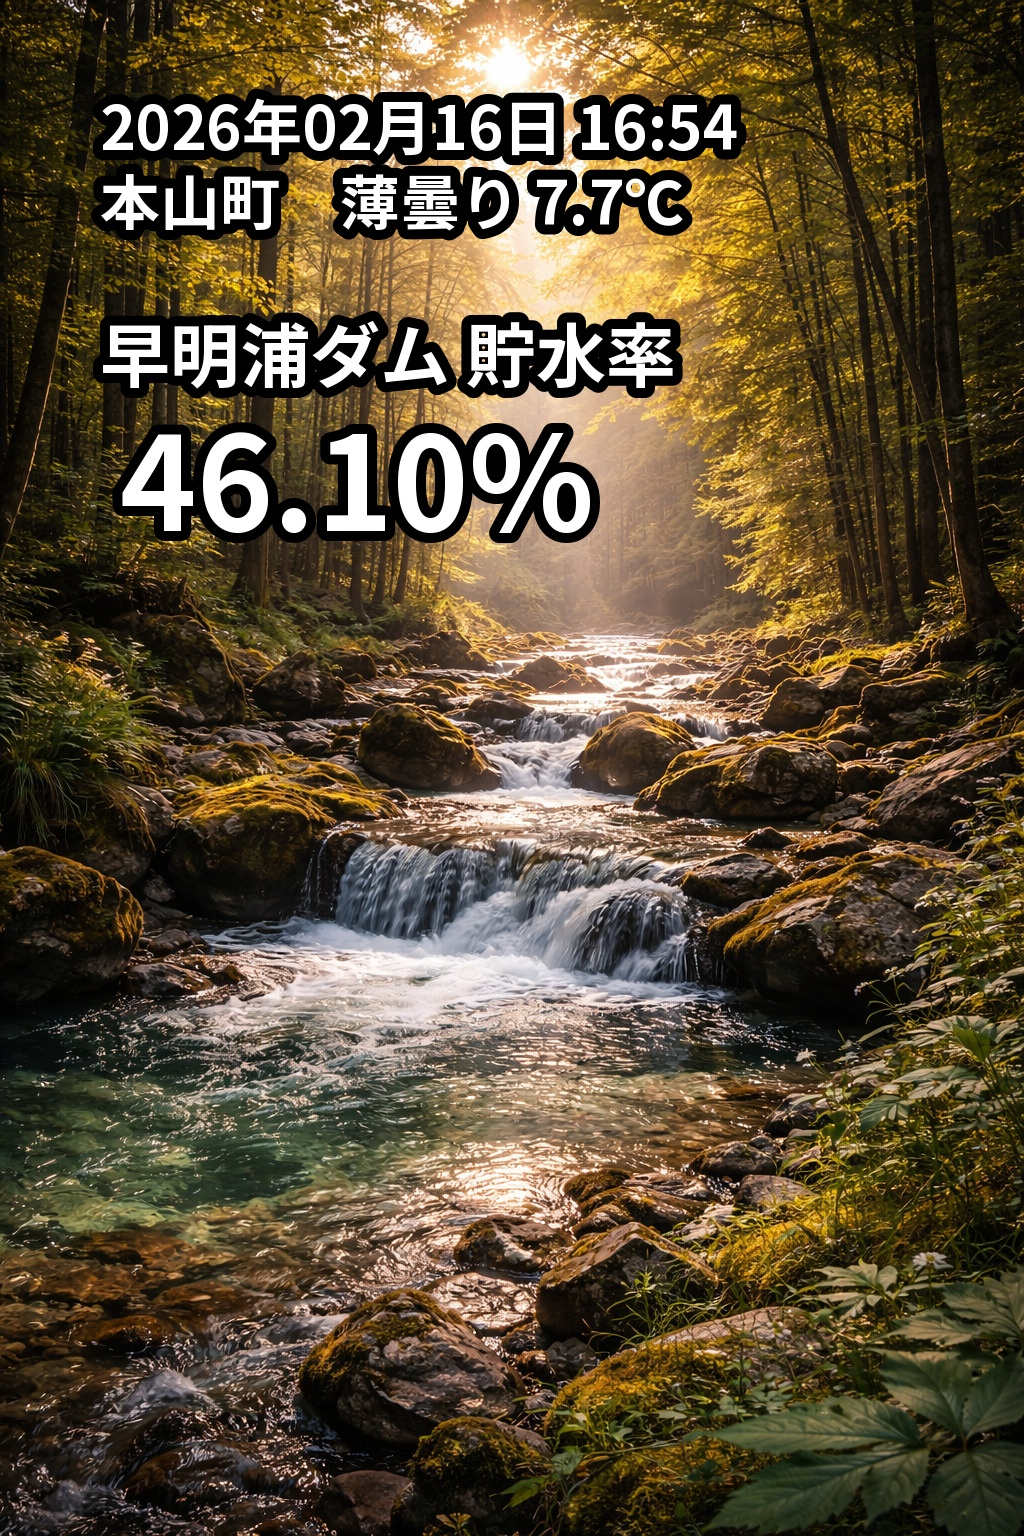
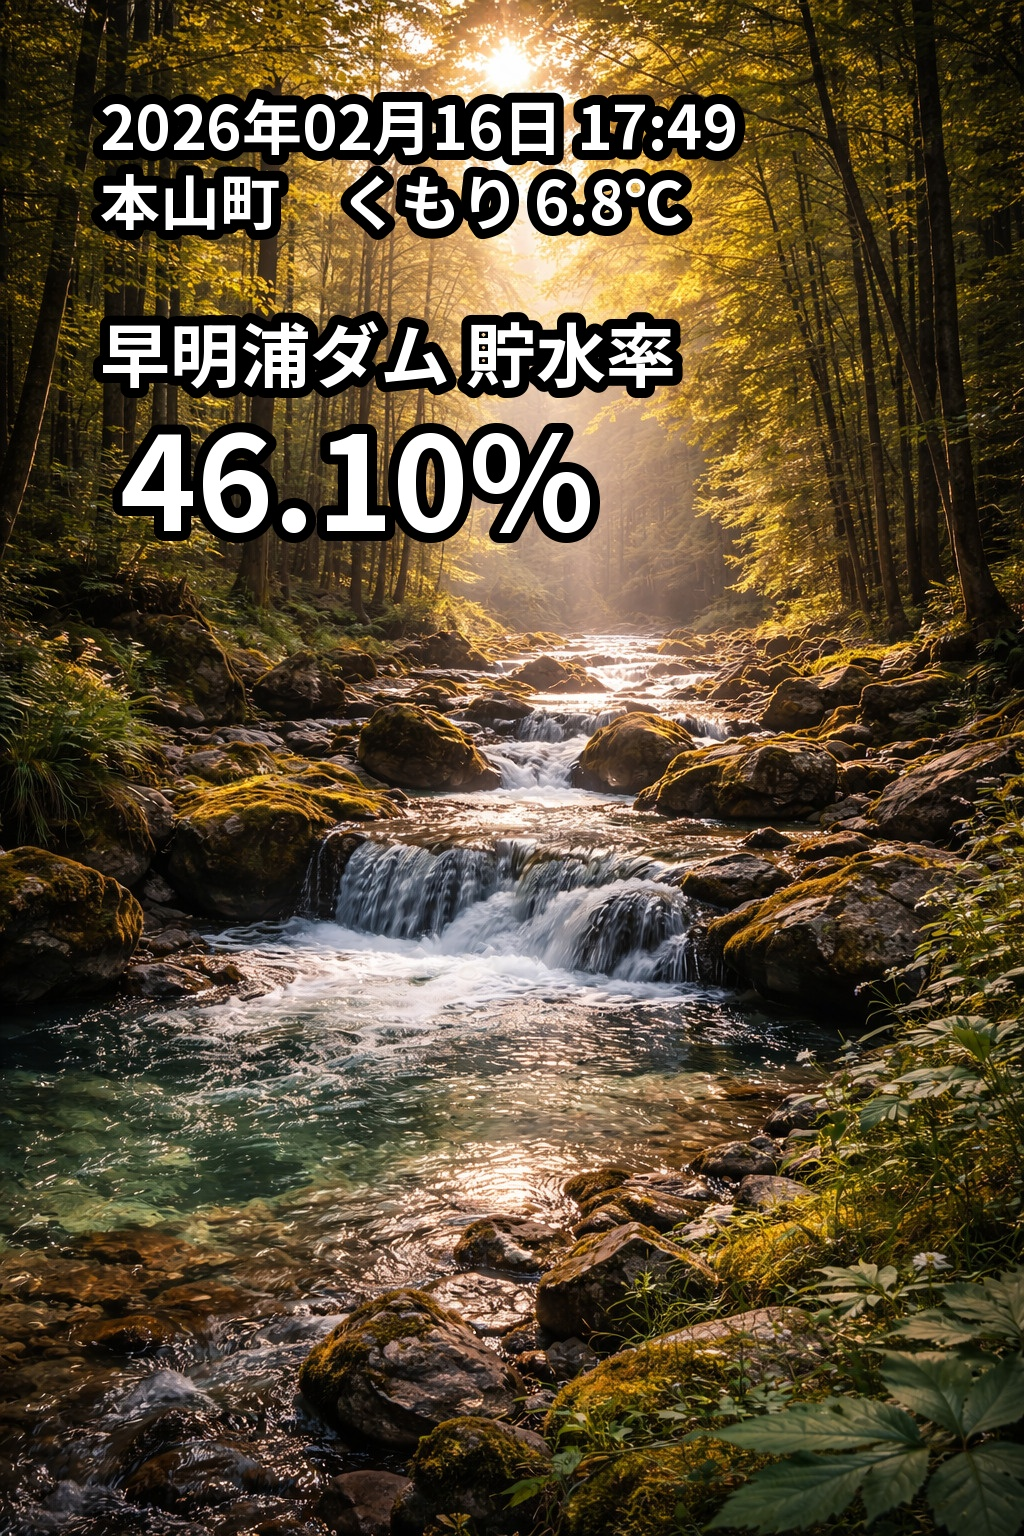
Update daily image

Changed region(s): [[0.5, 0.0625, 0.7188, 0.1562], [0.3125, 0.0938, 0.4688, 0.1562]]

diff --git a/index.html b/index.html
@@ -10,6 +10,6 @@
   </style>
 </head>
 <body>
-  <img src="result.jpg?v=202602161654" alt="早明浦ダム 貯水率" />
+  <img src="result.jpg?v=202602161749" alt="早明浦ダム 貯水率" />
 </body>
 </html>
